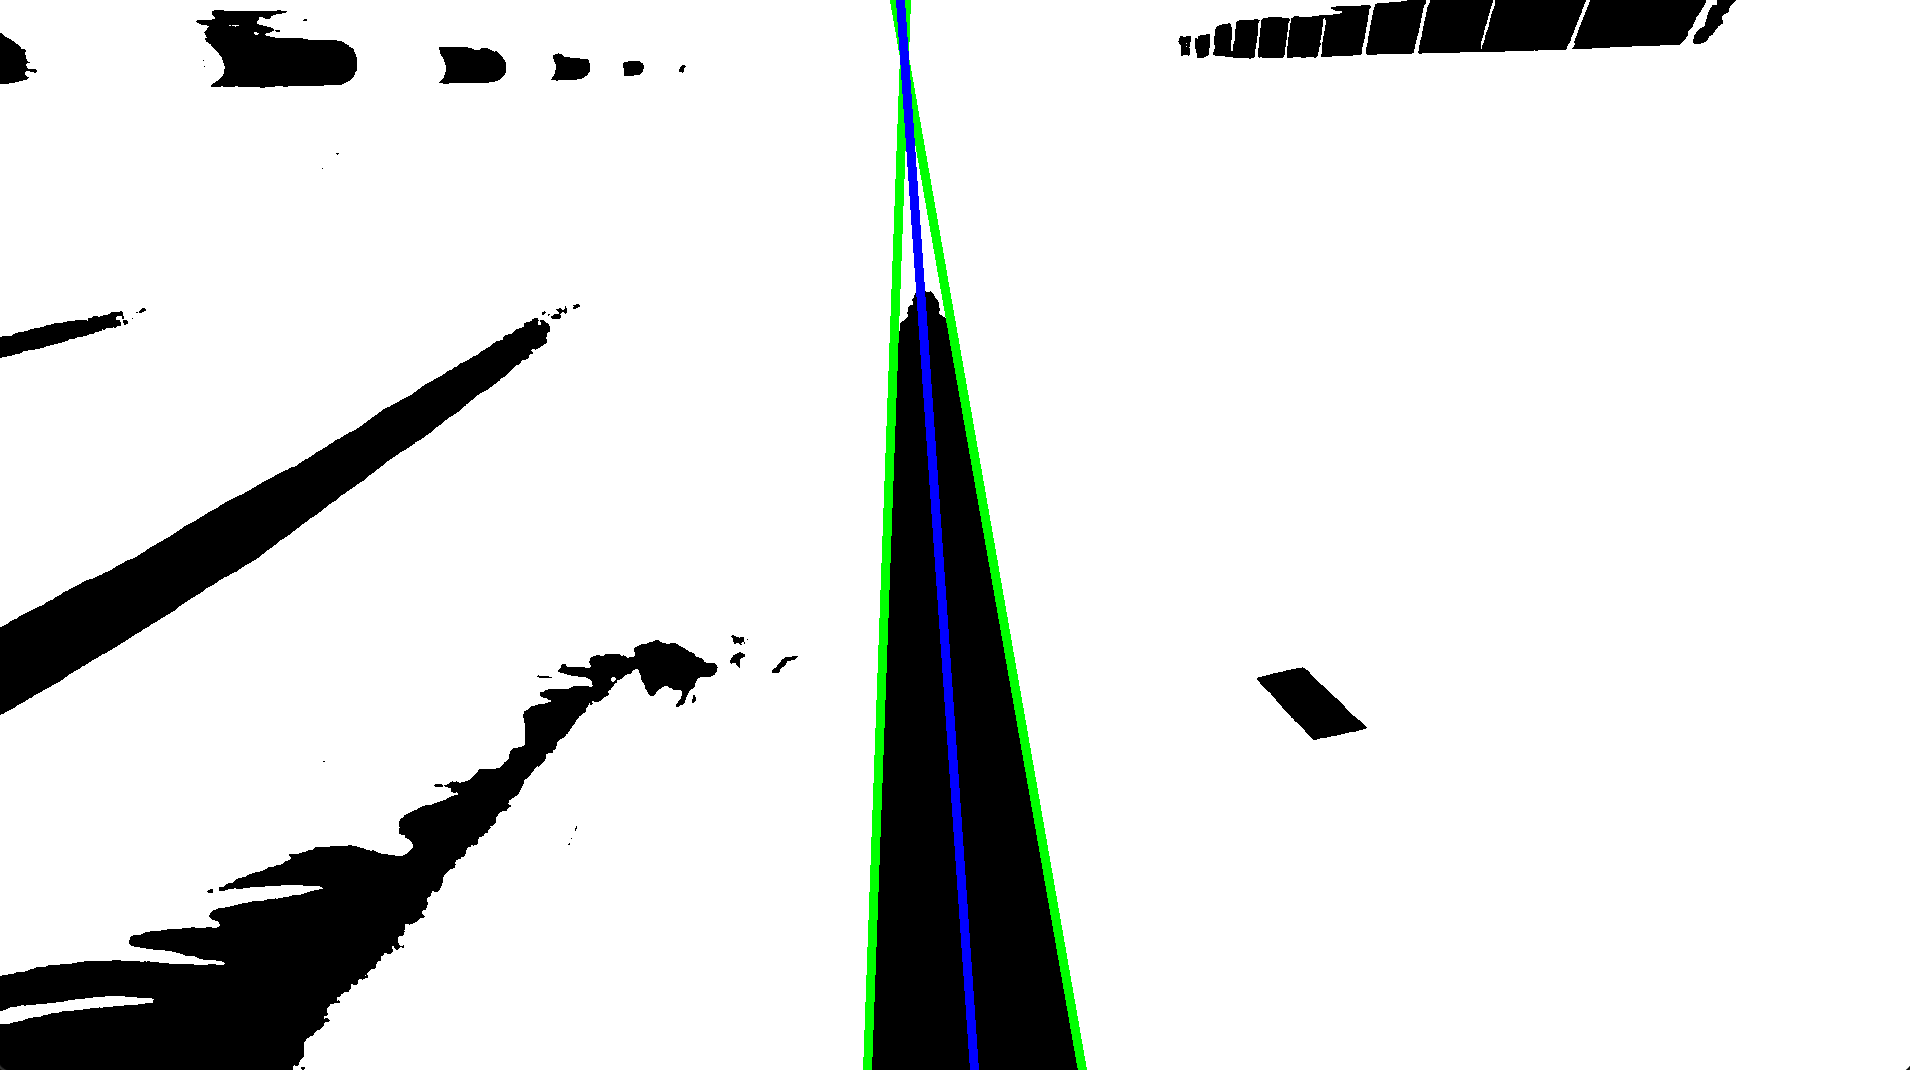
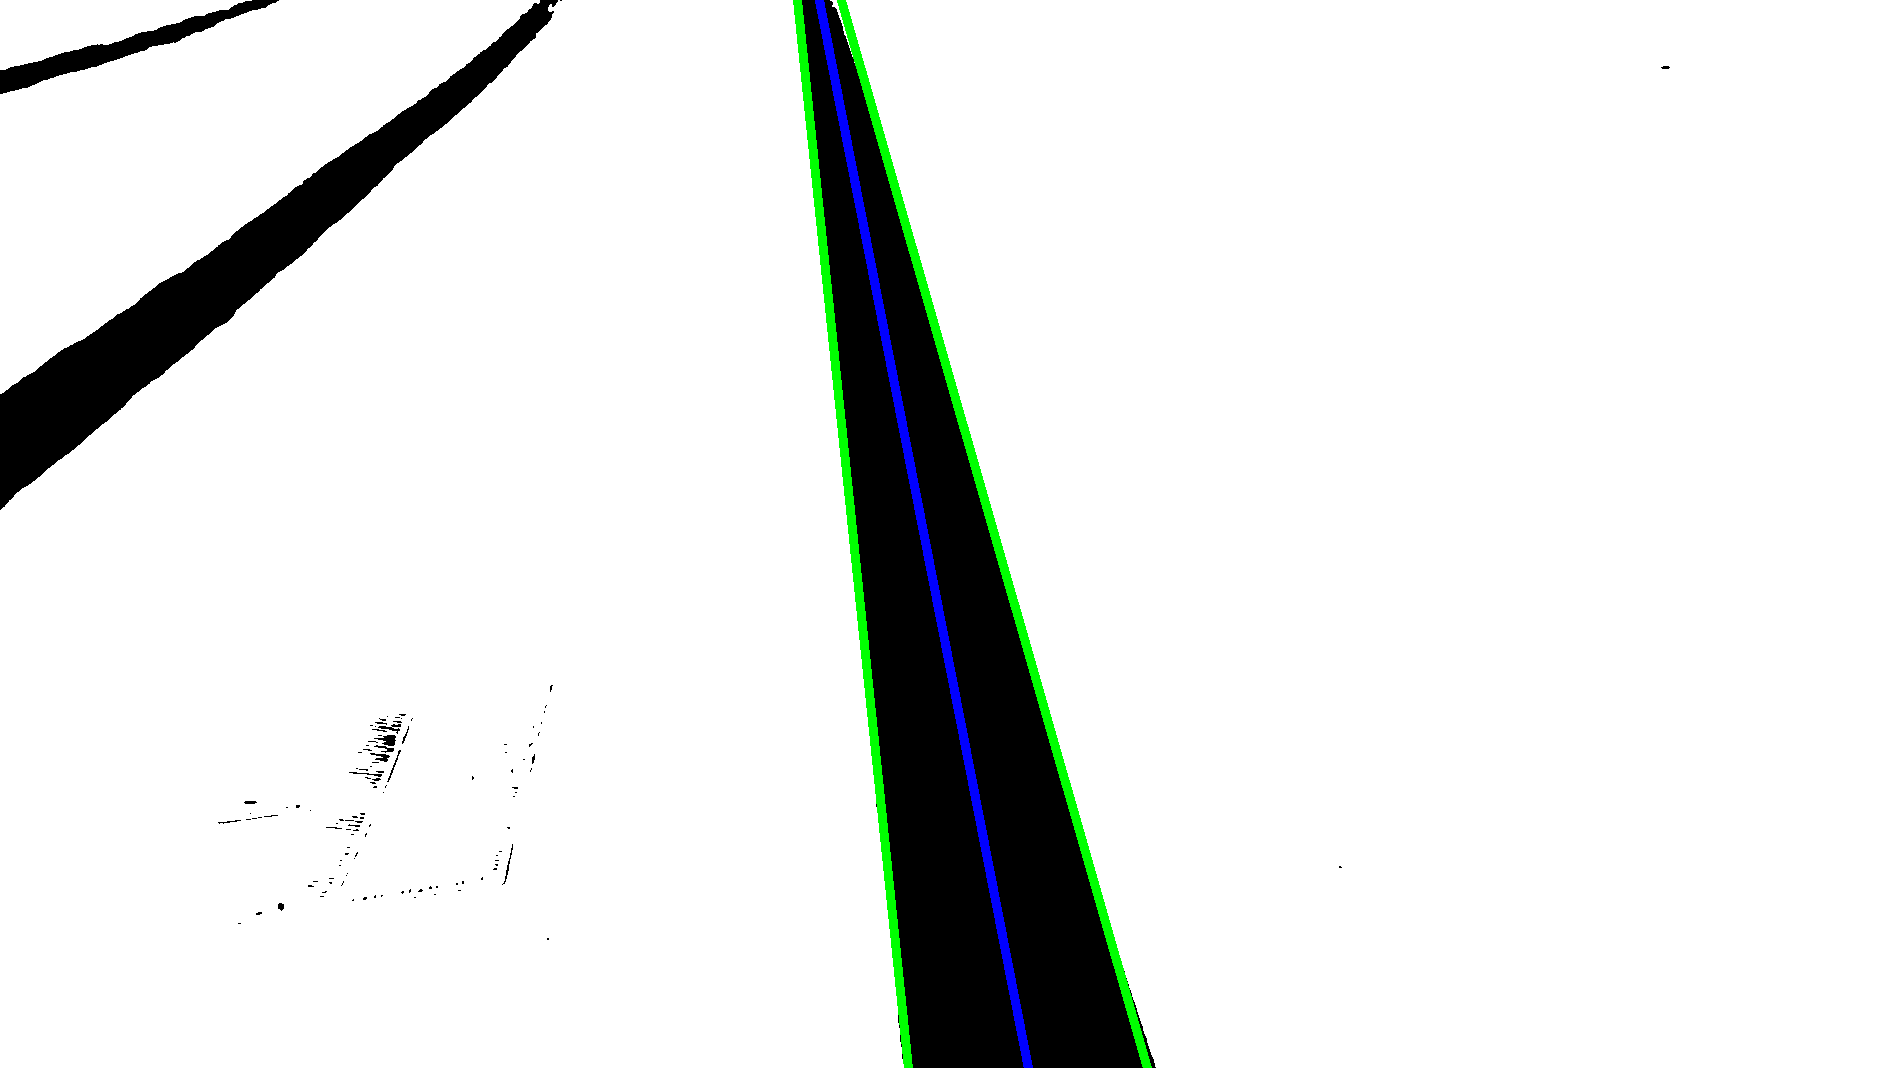
holy gyat

diff --git a/basic_video_player.py b/basic_video_player.py
@@ -16,6 +16,9 @@ def main():
     cv2.namedWindow('BW Post Threshold')
     cv2.namedWindow('Lines on Thresh')
     paused = False
+    prev_avg_line_endpoints = None # For temporal smoothing
+    SMOOTHING_FACTOR = 0.1         # Weight for the current frame's line (decreased from 0.2 for EXTRA smooth)
+    MAX_ALLOWED_JUMP_RATIO = 0.25  # Max jump distance as a ratio of image width
     
     while True:
         if not paused:
@@ -40,7 +43,7 @@ def main():
             image_center_x = image_width / 2.0
 
             edges = cv2.Canny(thresh, 50, 150, apertureSize=3)
-            lines = cv2.HoughLinesP(edges, 1, np.pi / 180, threshold=50, minLineLength=50, maxLineGap=30)
+            lines = cv2.HoughLinesP(edges, 1, np.pi / 180, threshold=25, minLineLength=100, maxLineGap=30)
 
             if lines is not None:
                 line_candidates = []
@@ -48,16 +51,44 @@ def main():
                     x1, y1, x2, y2 = line_segment[0]
                     avg_x_segment = (x1 + x2) / 2.0
                     distance_to_center = abs(avg_x_segment - image_center_x)
-                    line_candidates.append({'segment': (x1, y1, x2, y2), 'distance': distance_to_center})
+                    angle_rad = np.arctan2(y2 - y1, x2 - x1)
+                    line_candidates.append({'segment': (x1, y1, x2, y2), 'distance': distance_to_center, 'avg_x': avg_x_segment, 'angle': angle_rad})
 
                 if line_candidates:
                     line_candidates.sort(key=lambda item: item['distance'])
                     
-                    extended_lines_endpoints = []
-                    num_to_process = min(2, len(line_candidates))
+                    selected_lines_data = []
+                    if line_candidates: # Ensure there is at least one candidate
+                        selected_lines_data.append(line_candidates[0]) # Add the closest line
+                        
+                        # Try to find a second, distinct line
+                        if len(selected_lines_data) == 1 and len(line_candidates) > 1:
+                            line1_data = selected_lines_data[0]
+                            
+                            angle_similarity_threshold_rad = 0.1  # If acute angle diff < this, angles are "similar"
+                            min_avg_x_sep_if_angles_similar = image_width * 0.20
+                            min_avg_x_sep_if_angles_different = image_width * 0.05
 
-                    for i in range(num_to_process):
-                        line_data = line_candidates[i]
+                            for candidate_data in line_candidates[1:]:
+                                # Calculate acute angle difference between the two lines
+                                norm_angle1 = np.mod(line1_data['angle'], np.pi)
+                                norm_angle_candidate = np.mod(candidate_data['angle'], np.pi)
+                                angle_diff_rad = abs(norm_angle1 - norm_angle_candidate)
+                                min_acute_angle_diff = min(angle_diff_rad, np.pi - angle_diff_rad)
+
+                                # Determine required x-separation based on angle similarity
+                                required_x_separation = min_avg_x_sep_if_angles_similar
+                                if min_acute_angle_diff >= angle_similarity_threshold_rad: # Angles are different enough
+                                    required_x_separation = min_avg_x_sep_if_angles_different
+
+                                avg_x_dist = abs(candidate_data['avg_x'] - line1_data['avg_x'])
+
+                                if avg_x_dist >= required_x_separation:
+                                    selected_lines_data.append(candidate_data)
+                                    break # Found our second line
+
+                    extended_lines_endpoints = []
+                    for line_data in selected_lines_data: # Iterate over the selected distinct lines (at most 2)
                         x1, y1, x2, y2 = line_data['segment']
                         pt1_ext, pt2_ext = None, None
 
@@ -65,7 +96,7 @@ def main():
                             pt1_ext = (x1, 0)
                             pt2_ext = (x1, image_height - 1)
                         elif abs(y1 - y2) < 1e-6: # Horizontal segment
-                            cv2.line(output_lines_on_thresh, (x1, y1), (x2, y2), (0, 255, 255), 2) # Yellow
+                            cv2.line(output_lines_on_thresh, (x1, y1), (x2, y2), (0, 255, 255), 8) # Yellow
                             extended_lines_endpoints.append(None)
                             continue
                         else: # Slanted segment
@@ -89,7 +120,7 @@ def main():
 
                             # Draw if the line has some length after extension and clipping
                             if np.sqrt((valid_pt2[0]-valid_pt1[0])**2 + (valid_pt2[1]-valid_pt1[1])**2) > 10:
-                                cv2.line(output_lines_on_thresh, valid_pt1, valid_pt2, (0, 255, 0), 2) # Green
+                                cv2.line(output_lines_on_thresh, valid_pt1, valid_pt2, (0, 255, 0), 8) # Green
                                 extended_lines_endpoints.append((valid_pt1, valid_pt2))
                             else:
                                 extended_lines_endpoints.append(None)
@@ -107,10 +138,38 @@ def main():
                         avg_pt2_x = (l1_pt2[0] + l2_pt2[0]) / 2.0
                         avg_pt2_y = (l1_pt2[1] + l2_pt2[1]) / 2.0 # Should be image_height-1 for lines extended to bottom
 
-                        avg_pt1 = (int(round(avg_pt1_x)), int(round(avg_pt1_y)))
-                        avg_pt2 = (int(round(avg_pt2_x)), int(round(avg_pt2_y)))
+                        current_avg_pt1 = (int(round(avg_pt1_x)), int(round(avg_pt1_y)))
+                        current_avg_pt2 = (int(round(avg_pt2_x)), int(round(avg_pt2_y)))
                         
-                        cv2.line(output_lines_on_thresh, avg_pt1, avg_pt2, (255, 0, 0), 6) # Blue
+                        display_pt1, display_pt2 = current_avg_pt1, current_avg_pt2
+
+                        if prev_avg_line_endpoints is not None:
+                            prev_pt1, prev_pt2 = prev_avg_line_endpoints
+                            
+                            # Calculate midpoint distance for jerk detection
+                            current_mid_x = (current_avg_pt1[0] + current_avg_pt2[0]) / 2.0
+                            current_mid_y = (current_avg_pt1[1] + current_avg_pt2[1]) / 2.0
+                            prev_mid_x = (prev_pt1[0] + prev_pt2[0]) / 2.0
+                            prev_mid_y = (prev_pt1[1] + prev_pt2[1]) / 2.0
+                            jump_distance = np.sqrt((current_mid_x - prev_mid_x)**2 + (current_mid_y - prev_mid_y)**2)
+                            max_jump = image_width * MAX_ALLOWED_JUMP_RATIO
+
+                            if jump_distance < max_jump:
+                                # Apply smoothing if jump is within acceptable limits
+                                smooth_pt1_x = SMOOTHING_FACTOR * current_avg_pt1[0] + (1 - SMOOTHING_FACTOR) * prev_pt1[0]
+                                smooth_pt1_y = SMOOTHING_FACTOR * current_avg_pt1[1] + (1 - SMOOTHING_FACTOR) * prev_pt1[1]
+                                smooth_pt2_x = SMOOTHING_FACTOR * current_avg_pt2[0] + (1 - SMOOTHING_FACTOR) * prev_pt2[0]
+                                smooth_pt2_y = SMOOTHING_FACTOR * current_avg_pt2[1] + (1 - SMOOTHING_FACTOR) * prev_pt2[1]
+                                display_pt1 = (int(round(smooth_pt1_x)), int(round(smooth_pt1_y)))
+                                display_pt2 = (int(round(smooth_pt2_x)), int(round(smooth_pt2_y)))
+                            # Else (jump_distance >= max_jump): use current_avg_pt1, current_avg_pt2 directly (already set)
+                            # This allows the line to adapt quickly to large, potentially correct shifts.
+                        
+                        cv2.line(output_lines_on_thresh, display_pt1, display_pt2, (255, 0, 0), 8) # Blue
+                        prev_avg_line_endpoints = (current_avg_pt1, current_avg_pt2) # Store unsmoothed for next iter
+                    else:
+                        # If no two valid lines found, reset smoothing history
+                        prev_avg_line_endpoints = None
             
             cv2.imshow('Lines on Thresh', output_lines_on_thresh)
             # --- End Line Detection Integration ---
